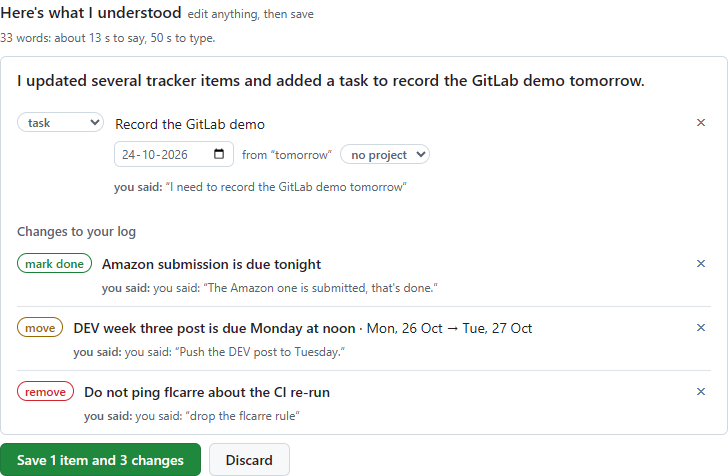
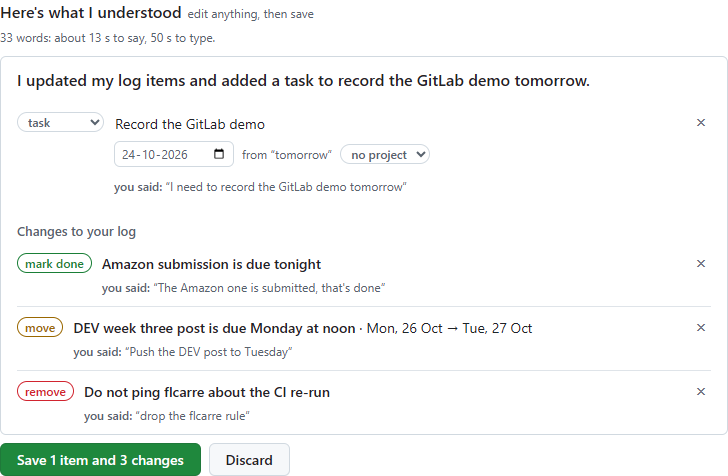
Plan: talk to edit done; new screenshot

diff --git a/docs/PLAN-NEXT-DAYS.md b/docs/PLAN-NEXT-DAYS.md
@@ -33,7 +33,7 @@ Typed updates are short and tidy. Spoken updates are long, messy, self-correctin
 | Day | Build | Ankith |
 |---|---|---|
 | Fri 23 | ✅ DONE 09:28 (fae45cd, live rev 00006): 1 brain-dump parser (corrections, hedges, urgency, spoken numbers, take-backs) + 2 auto-read; 44 tests | use ShipLog for real by voice tonight; keep raw updates |
-| Sat 24 | 3 talk-to-edit commands | a 2-min end-of-day brain dump |
+| Sat 24 | ✅ DONE EARLY 23 Oct 09:37 (live): 3 talk-to-edit (done/move/drop/reopen by voice, history kept) + spoken questions go to Ask; 51 tests | a 2-min end-of-day brain dump |
 | Sun 25 | 4 Flow tune-up (misheard-name check + Dictionary/Snippets list) | add the suggested words to Flow; screenshot before/after |
 | Mon 26 | 6 GitHub "needs you" + merged -> done, webcal feed, GitLab MRs | subscribe the calendar on phone |
 | Tue 27 | 5 Telegram capture bot (GitLab hackathon due 18:30, lighter day) | create the bot in @BotFather, paste token to me |
